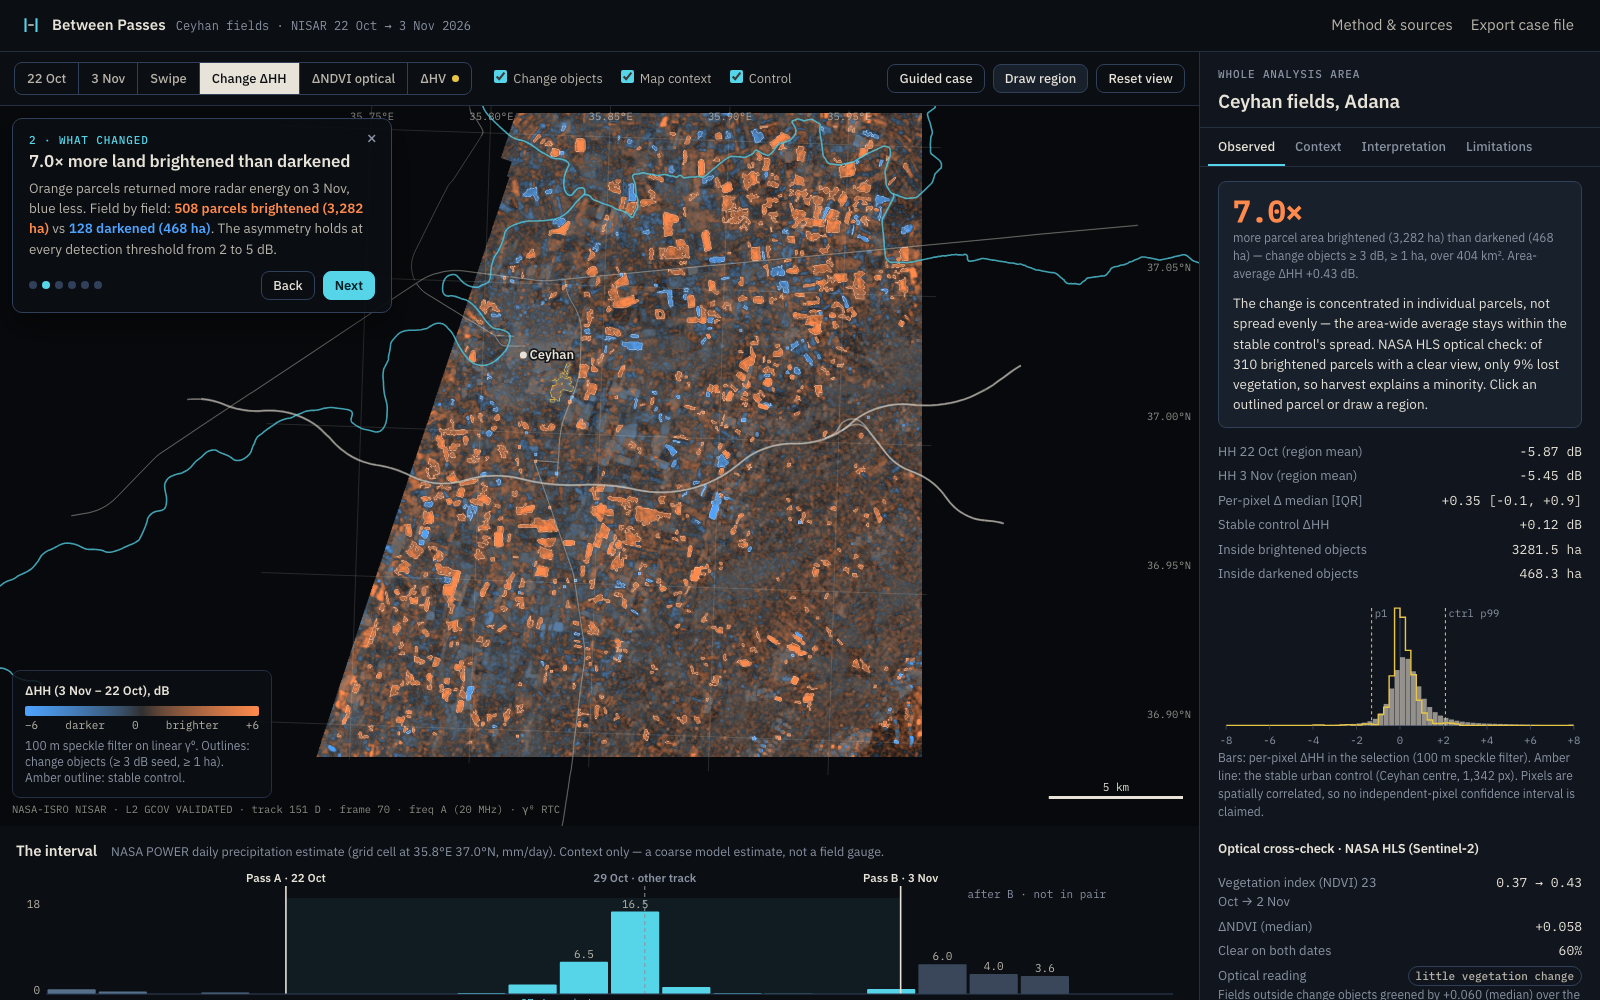
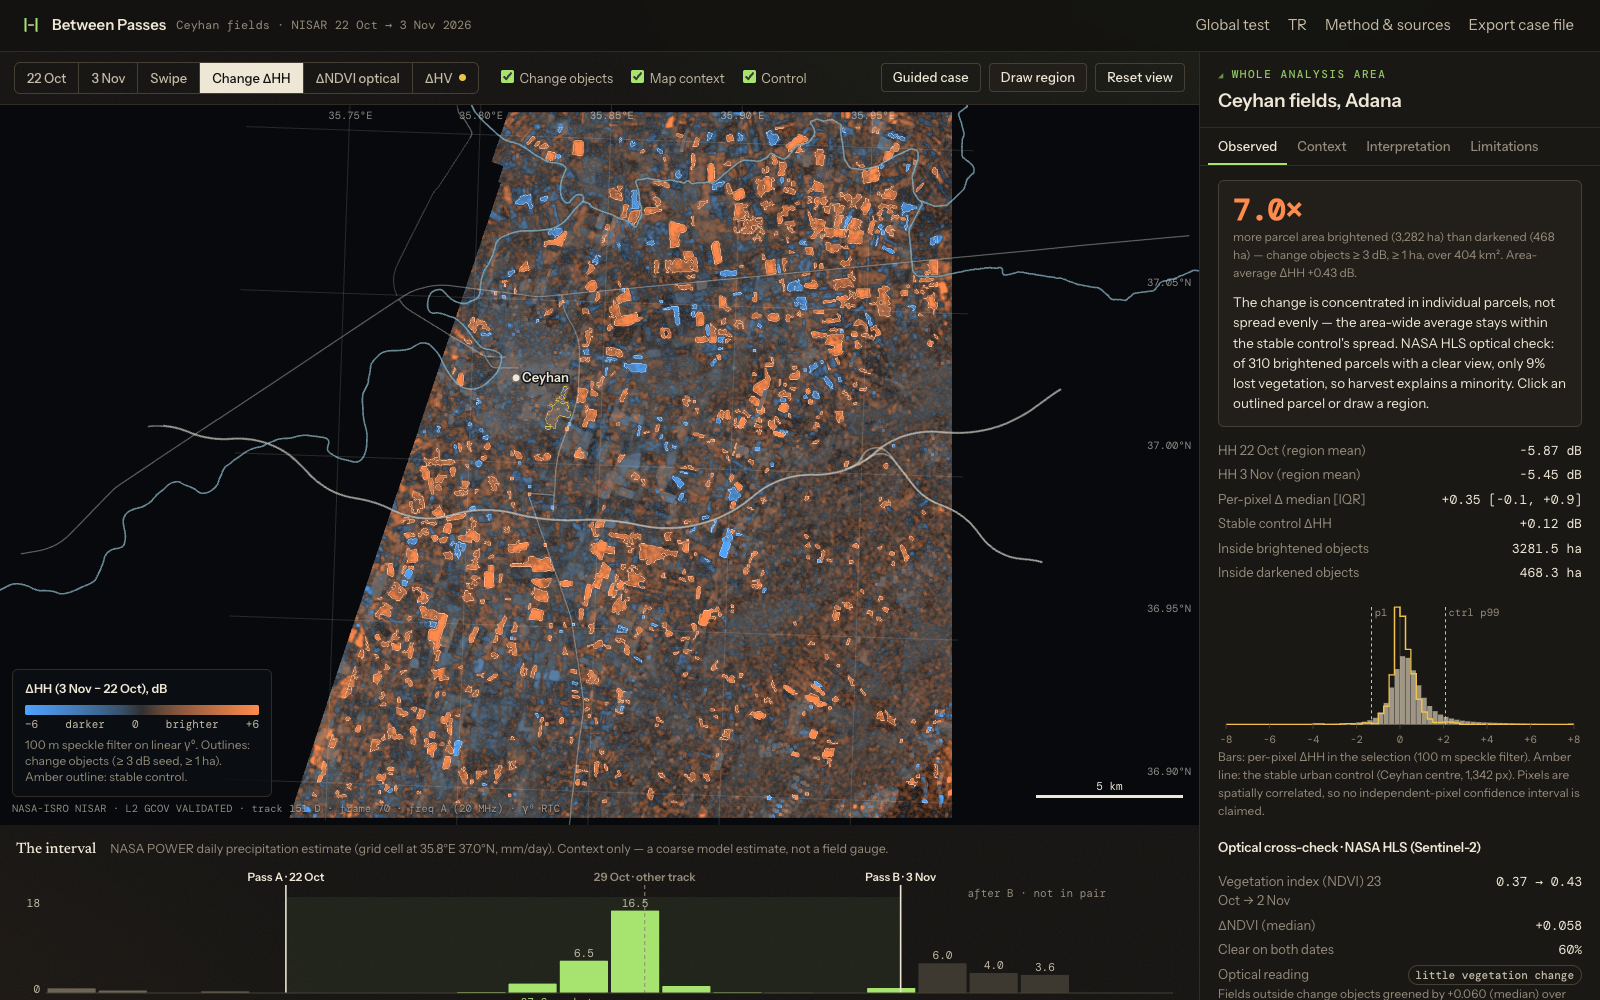
Cover: NISAR ground track with moving satellite and live pass log (22 Oct, 3 Nov, next 15 Nov); decks and video cards in the new identity; retaken screenshots

diff --git a/submission/deck/deck.html b/submission/deck/deck.html
@@ -3,34 +3,35 @@
 <head>
 <meta charset="utf-8">
 <title>Between Passes — NASA Space Apps 2026 demo deck</title>
-<link href="https://fonts.googleapis.com/css2?family=IBM+Plex+Mono:wght@400;500&family=IBM+Plex+Sans:wght@400;500;600&display=swap" rel="stylesheet">
+<link href="https://fonts.googleapis.com/css2?family=DM+Mono:wght@400;500&family=Instrument+Sans:wght@400;500;600&family=Newsreader:ital,opsz,wght@0,6..72,400;0,6..72,500;0,6..72,600;1,6..72,400;1,6..72,500&display=swap" rel="stylesheet">
 <style>
   @page { size: 1920px 1080px; margin: 0; }
-  :root { --ink:#0b0e13; --ink2:#11161e; --ink3:#18202b; --line:#243041; --bone:#e8e3d8; --bone2:#b9b4aa; --muted:#8a93a3; --accent:#56d4e8; --up:#ff8a4c; --down:#4ea3ff; --caution:#e8c547; --green:#5ec962; --mag:#d65cc4; }
+  :root { --ink:#12110f; --ink2:#1a1815; --ink3:#221f1a; --line:#302b24; --bone:#efe7d6; --bone2:#c4baa6; --muted:#948a7a; --accent:#a6e36f; --up:#ff8a4c; --down:#5aa9ff; --caution:#f0c24b; --green:#5ec962; --mag:#d65cc4; }
   * { box-sizing: border-box; }
-  html, body { margin: 0; background: var(--ink); color: var(--bone); font-family: "IBM Plex Sans", sans-serif; -webkit-print-color-adjust: exact; print-color-adjust: exact; }
-  .slide { width: 1920px; height: 1080px; position: relative; overflow: hidden; page-break-after: always; break-after: page; padding: 84px 96px; background: var(--ink); }
+  html, body { margin: 0; background: var(--ink); color: var(--bone); font-family: "Instrument Sans", sans-serif; -webkit-print-color-adjust: exact; print-color-adjust: exact; }
+  .slide { width: 1920px; height: 1080px; position: relative; overflow: hidden; page-break-after: always; break-after: page; padding: 84px 96px; background: radial-gradient(1400px 800px at 85% -15%, rgba(166,227,111,.07), transparent 60%), radial-gradient(1000px 700px at -10% 115%, rgba(255,138,76,.06), transparent 60%), var(--ink); }
   .slide:last-child { page-break-after: auto; break-after: auto; }
-  .mono { font-family: "IBM Plex Mono", monospace; }
-  .k { font: 500 22px "IBM Plex Mono", monospace; letter-spacing: .1em; text-transform: uppercase; color: var(--accent); margin: 0 0 18px; }
-  h1 { font-size: 132px; line-height: .95; letter-spacing: -0.04em; margin: 0 0 30px; font-weight: 600; }
-  h2 { font-size: 64px; line-height: 1.05; letter-spacing: -0.025em; margin: 0 0 28px; font-weight: 600; max-width: 1500px; }
+  .mono { font-family: "DM Mono", monospace; }
+  .k { font: 500 22px "DM Mono", monospace; letter-spacing: .1em; text-transform: uppercase; color: var(--accent); margin: 0 0 18px; }
+  h1 { font-family: "Newsreader", Georgia, serif; font-size: 150px; line-height: .9; letter-spacing: -0.025em; margin: 0 0 30px; font-weight: 500; }
+  h1 em { font-style: italic; color: var(--accent); }
+  h2 { font-family: "Newsreader", Georgia, serif; font-size: 66px; line-height: 1.05; letter-spacing: -0.015em; margin: 0 0 28px; font-weight: 500; max-width: 1600px; }
   p, li { font-size: 32px; line-height: 1.4; color: var(--bone2); margin: 0; }
   strong { color: var(--bone); font-weight: 600; }
   .up { color: var(--up); } .down { color: var(--down); } .acc { color: var(--accent); } .cau { color: var(--caution); }
-  .foot { position: absolute; left: 96px; right: 96px; bottom: 44px; display: flex; justify-content: space-between; font: 20px "IBM Plex Mono", monospace; color: var(--muted); }
+  .foot { position: absolute; left: 96px; right: 96px; bottom: 44px; display: flex; justify-content: space-between; font: 20px "DM Mono", monospace; color: var(--muted); }
   .shot { border-radius: 14px; border: 1px solid var(--line); box-shadow: 0 30px 80px rgba(0,0,0,.5); display: block; }
   .grid2 { display: grid; grid-template-columns: 1fr 1fr; gap: 64px; align-items: center; }
-  .pill { display: inline-block; font: 500 22px "IBM Plex Mono", monospace; padding: 6px 16px; border-radius: 99px; border: 1px solid var(--line); color: var(--bone2); }
+  .pill { display: inline-block; font: 500 22px "DM Mono", monospace; padding: 6px 16px; border-radius: 99px; border: 1px solid var(--line); color: var(--bone2); }
   ul { padding-left: 0; list-style: none; margin: 0; }
   ul li { padding-left: 36px; position: relative; margin-bottom: 18px; }
   ul li::before { content: ""; position: absolute; left: 0; top: 17px; width: 14px; height: 3px; background: var(--accent); }
   .ladder { display: grid; grid-template-columns: repeat(4, 1fr); gap: 22px; margin-top: 18px; }
   .rung { background: var(--ink2); border: 1px solid var(--line); border-radius: 16px; padding: 30px 30px 32px; position: relative; }
-  .rung .q { font: 500 22px "IBM Plex Mono", monospace; color: var(--accent); letter-spacing: .06em; text-transform: uppercase; }
-  .rung .big { white-space: nowrap; font: 600 76px/1 "IBM Plex Mono", monospace; letter-spacing: -0.03em; margin: 18px 0 14px; }
+  .rung .q { font: 500 22px "DM Mono", monospace; color: var(--accent); letter-spacing: .06em; text-transform: uppercase; }
+  .rung .big { white-space: nowrap; font: 600 76px/1 "DM Mono", monospace; letter-spacing: -0.03em; margin: 18px 0 14px; }
   .rung p { font-size: 30px; }
-  .rung .src { position: absolute; left: 30px; bottom: 22px; font: 19px "IBM Plex Mono", monospace; color: var(--muted); }
+  .rung .src { position: absolute; left: 30px; bottom: 22px; font: 19px "DM Mono", monospace; color: var(--muted); }
   .rung { padding-bottom: 70px; min-height: 470px; }
   .arrow { position: absolute; right: -19px; top: 50%; width: 16px; height: 16px; border-top: 3px solid var(--line); border-right: 3px solid var(--line); transform: translateY(-50%) rotate(45deg); background: var(--ink); z-index: 2; }
   table { border-collapse: collapse; width: 100%; font-size: 26px; }
@@ -45,7 +46,7 @@
 <section class="slide" style="display:grid;grid-template-columns:1.05fr .95fr;gap:72px;align-items:center;">
   <div>
     <p class="k">NASA Space Apps 2026 · Dancing with the SARs</p>
-    <h1>Between<br>Passes</h1>
+    <h1>Between<br><em>Passes</em></h1>
     <p style="font-size:38px;color:var(--bone);max-width:880px;line-height:1.3">What NASA-ISRO's NISAR radar saw change in my hometown's fields — why, and whether it holds worldwide.</p>
     <div style="margin-top:56px;display:grid;grid-template-columns:auto 1fr;gap:12px 28px;font-size:28px">
       <span class="mono" style="color:var(--muted)">TEAM</span><span>Signal Foundry</span>
@@ -54,7 +55,7 @@
       <span class="mono" style="color:var(--muted)">CHALLENGE</span><span>Dancing with the SARs</span>
     </div>
   </div>
-  <div style="text-align:center"><img class="shot" src="../shots/map_delta_hero.png" style="height:800px;width:auto;max-width:100%;object-fit:contain;background:#0b0e13"><p class="note mono" style="margin-top:14px;font-size:19px">ΔHH 22 Oct → 3 Nov · <span class="up">brighter</span> / <span class="down">darker</span> · outlines: 636 change parcels</p></div>
+  <div style="text-align:center"><img class="shot" src="../shots/map_delta_hero.png" style="height:800px;width:auto;max-width:100%;object-fit:contain;background:#12110f"><p class="note mono" style="margin-top:14px;font-size:19px">ΔHH 22 Oct → 3 Nov · <span class="up">brighter</span> / <span class="down">darker</span> · outlines: 636 change parcels</p></div>
   <div class="foot"><span>Real NASA NISAR VALIDATED data · Ceyhan, Adana · 22 Oct → 3 Nov 2026</span><span>1 / 7</span></div>
 </section>
 

diff --git a/submission/video/cards.html b/submission/video/cards.html
@@ -1,22 +1,22 @@
 <!doctype html>
 <html lang="en"><head><meta charset="utf-8"><title>cards</title>
-<link href="https://fonts.googleapis.com/css2?family=IBM+Plex+Mono:wght@400;500&family=IBM+Plex+Sans:wght@400;500;600&display=swap" rel="stylesheet">
+<link href="https://fonts.googleapis.com/css2?family=DM+Mono:wght@400;500&family=Instrument+Sans:wght@400;500;600&family=Newsreader:ital,opsz,wght@0,6..72,400;0,6..72,500;0,6..72,600;1,6..72,400;1,6..72,500&display=swap" rel="stylesheet">
 <style>
-  html,body{margin:0;background:#0b0e13;color:#e8e3d8;font-family:"IBM Plex Sans",sans-serif}
+  html,body{margin:0;background:#12110f;color:#efe7d6;font-family:"Instrument Sans",sans-serif}
   .card{width:1920px;height:1080px;display:none;flex-direction:column;justify-content:center;padding:0 160px;box-sizing:border-box}
-  .k{font:500 24px "IBM Plex Mono",monospace;letter-spacing:.1em;text-transform:uppercase;color:#56d4e8;margin:0 0 22px}
-  h1{font-size:150px;line-height:.95;letter-spacing:-.04em;margin:0 0 36px;font-weight:600}
-  p{font-size:36px;line-height:1.4;color:#b9b4aa;margin:0;max-width:1400px}
-  .meta{margin-top:56px;font:28px "IBM Plex Mono",monospace;color:#8a93a3;line-height:1.7}
+  .k{font:500 24px "DM Mono",monospace;letter-spacing:.1em;text-transform:uppercase;color:#a6e36f;margin:0 0 22px}
+  h1{font-family:"Newsreader",Georgia,serif;font-size:170px;line-height:.9;letter-spacing:-.025em;margin:0 0 36px;font-weight:500}h1 em{font-style:italic;color:#a6e36f}
+  p{font-size:36px;line-height:1.4;color:#c4baa6;margin:0;max-width:1400px}
+  .meta{margin-top:56px;font:28px "DM Mono",monospace;color:#948a7a;line-height:1.7}
   ul{margin:28px 0 0;padding:0;list-style:none}
-  li{font-size:32px;color:#b9b4aa;margin-bottom:14px;padding-left:34px;position:relative}
-  li::before{content:"";position:absolute;left:0;top:20px;width:14px;height:3px;background:#e8c547}
-  strong{color:#e8e3d8}
+  li{font-size:32px;color:#c4baa6;margin-bottom:14px;padding-left:34px;position:relative}
+  li::before{content:"";position:absolute;left:0;top:20px;width:14px;height:3px;background:#f0c24b}
+  strong{color:#efe7d6}
 </style></head>
 <body>
 <section class="card" id="intro">
   <p class="k">NASA Space Apps 2026 · Dancing with the SARs</p>
-  <h1>Between Passes</h1>
+  <h1>Between <em>Passes</em></h1>
   <p>A radar evidence lab built on NASA-ISRO NISAR data: what changed in the fields of Ceyhan, Adana between two radar passes — and what can honestly be concluded.</p>
   <div class="meta">Deniz Efe Bulut · Team Signal Foundry · Niğde Local Event, Türkiye<br>Screen recording of the working app · captions, no narration</div>
 </section>

diff --git a/app/index.html b/app/index.html
@@ -35,7 +35,18 @@
       </div>
       <p class="fineprint">Real NASA NISAR VALIDATED data (L2 GCOV, CRID P05036). No login required. A case study — not an alert system.</p>
     </div>
-    <div class="cover-figure" aria-hidden="true"><canvas id="cover-canvas" width="600" height="600"></canvas></div>
+    <div class="cover-figure"><canvas id="cover-canvas" width="600" height="600" aria-hidden="true"></canvas>
+      <svg class="orbit" viewBox="0 0 600 600" aria-hidden="true">
+        <path id="trk" d="M404,-40 L196,640" class="trk"/>
+        <g class="sat"><g transform="scale(1.7)"><rect x="-5" y="-4" width="10" height="8" rx="1.5"/><rect x="-19" y="-2" width="12" height="4"/><rect x="7" y="-2" width="12" height="4"/></g>
+          <animateMotion dur="7s" repeatCount="indefinite" rotate="auto" keyPoints="0;1" keyTimes="0;1" calcMode="linear"><mpath href="#trk"/></animateMotion></g>
+      </svg>
+      <div class="passlog mono" aria-label="NISAR passes over Ceyhan">
+        <div class="pl-h">NISAR · track 151 ↓ · every 12 days</div>
+        <div><span class="ok">●</span> 22 Oct · pass A</div>
+        <div><span class="ok">●</span> 3 Nov · pass B</div>
+        <div class="next"><span>○</span> 15 Nov · next pass <b id="pl-count"></b></div>
+      </div></div>
   </section>
 
   <!-- APP ------------------------------------------------------------------>

diff --git a/app/css/app.css b/app/css/app.css
@@ -311,3 +311,16 @@ h1, .cover h1, .w-hero h1, .tr-hero h1 { font-family: var(--serif); font-weight:
 @media (prefers-reduced-motion: reduce) { .cover-figure::after { animation: none; display: none; } }
 .topbar { backdrop-filter: blur(8px); background: rgba(18,17,15,.82); border-bottom: 1px solid var(--line); }
 ::selection { background: rgba(166,227,111,.35); color: var(--bone); }
+
+/* Cover: NISAR ground track + pass log */
+.orbit { position: absolute; inset: 0; width: 100%; height: 100%; pointer-events: none; }
+.orbit .trk { stroke: rgba(166,227,111,.45); stroke-width: 1.2; stroke-dasharray: 2 6; fill: none; }
+.orbit .sat rect { fill: var(--bone); }
+.orbit .sat rect + rect, .orbit .sat rect + rect + rect { fill: var(--accent); }
+.passlog { position: absolute; right: 12px; top: 12px; background: rgba(18,17,15,.86); border: 1px solid var(--line-2);
+  border-radius: 4px; padding: 8px 11px; font-size: 11px; line-height: 1.65; color: var(--bone-2); }
+.passlog .pl-h { color: var(--accent); letter-spacing: .08em; text-transform: uppercase; font-size: 10px; margin-bottom: 2px; }
+.passlog .ok { color: var(--accent); }
+.passlog .next { color: var(--caution); }
+.passlog b { font-weight: 500; color: var(--bone); margin-left: 4px; }
+@media (prefers-reduced-motion: reduce) { .orbit .sat { display: none; } }

diff --git a/app/js/main.js b/app/js/main.js
@@ -559,6 +559,8 @@ function renderCover() {
   const s = C.stats.objects;
   const ratio = s.area_ha_brightened / s.area_ha_darkened;
   $("#cover-result").innerHTML = `Across the ${fmtInt(Math.round((C.stats.analysis_px * 0.04) / 100))} km² analysed, <strong>${ratio.toFixed(1)}× more land brightened than darkened</strong> in the radar — ${fmtInt(Math.round(s.area_ha_brightened))} ha vs ${fmtInt(Math.round(s.area_ha_darkened))} ha — while the town centre held steady (${f(C.stats.urban_control.dHH_db_region, 2, true)} dB).`;
+  const plc = () => { const ms = Date.UTC(2026, 10, 15, 16, 24) - Date.now(); const el = $("#pl-count"); if (el) el.textContent = ms > 0 ? `in ${Math.floor(ms / 3.6e6)} h` : "flown · awaiting data"; };
+  plc(); setInterval(plc, 60000);
   const cv = $("#cover-canvas"), ctx = cv.getContext("2d");
   const img = layerFor("delta").base;
   const edges = toCanvas(edgesImage(D.objects, (l) => (D.byId.get(l).sign === "brightened" ? 1 : -1), D.W, D.H, 0, D.urban));
